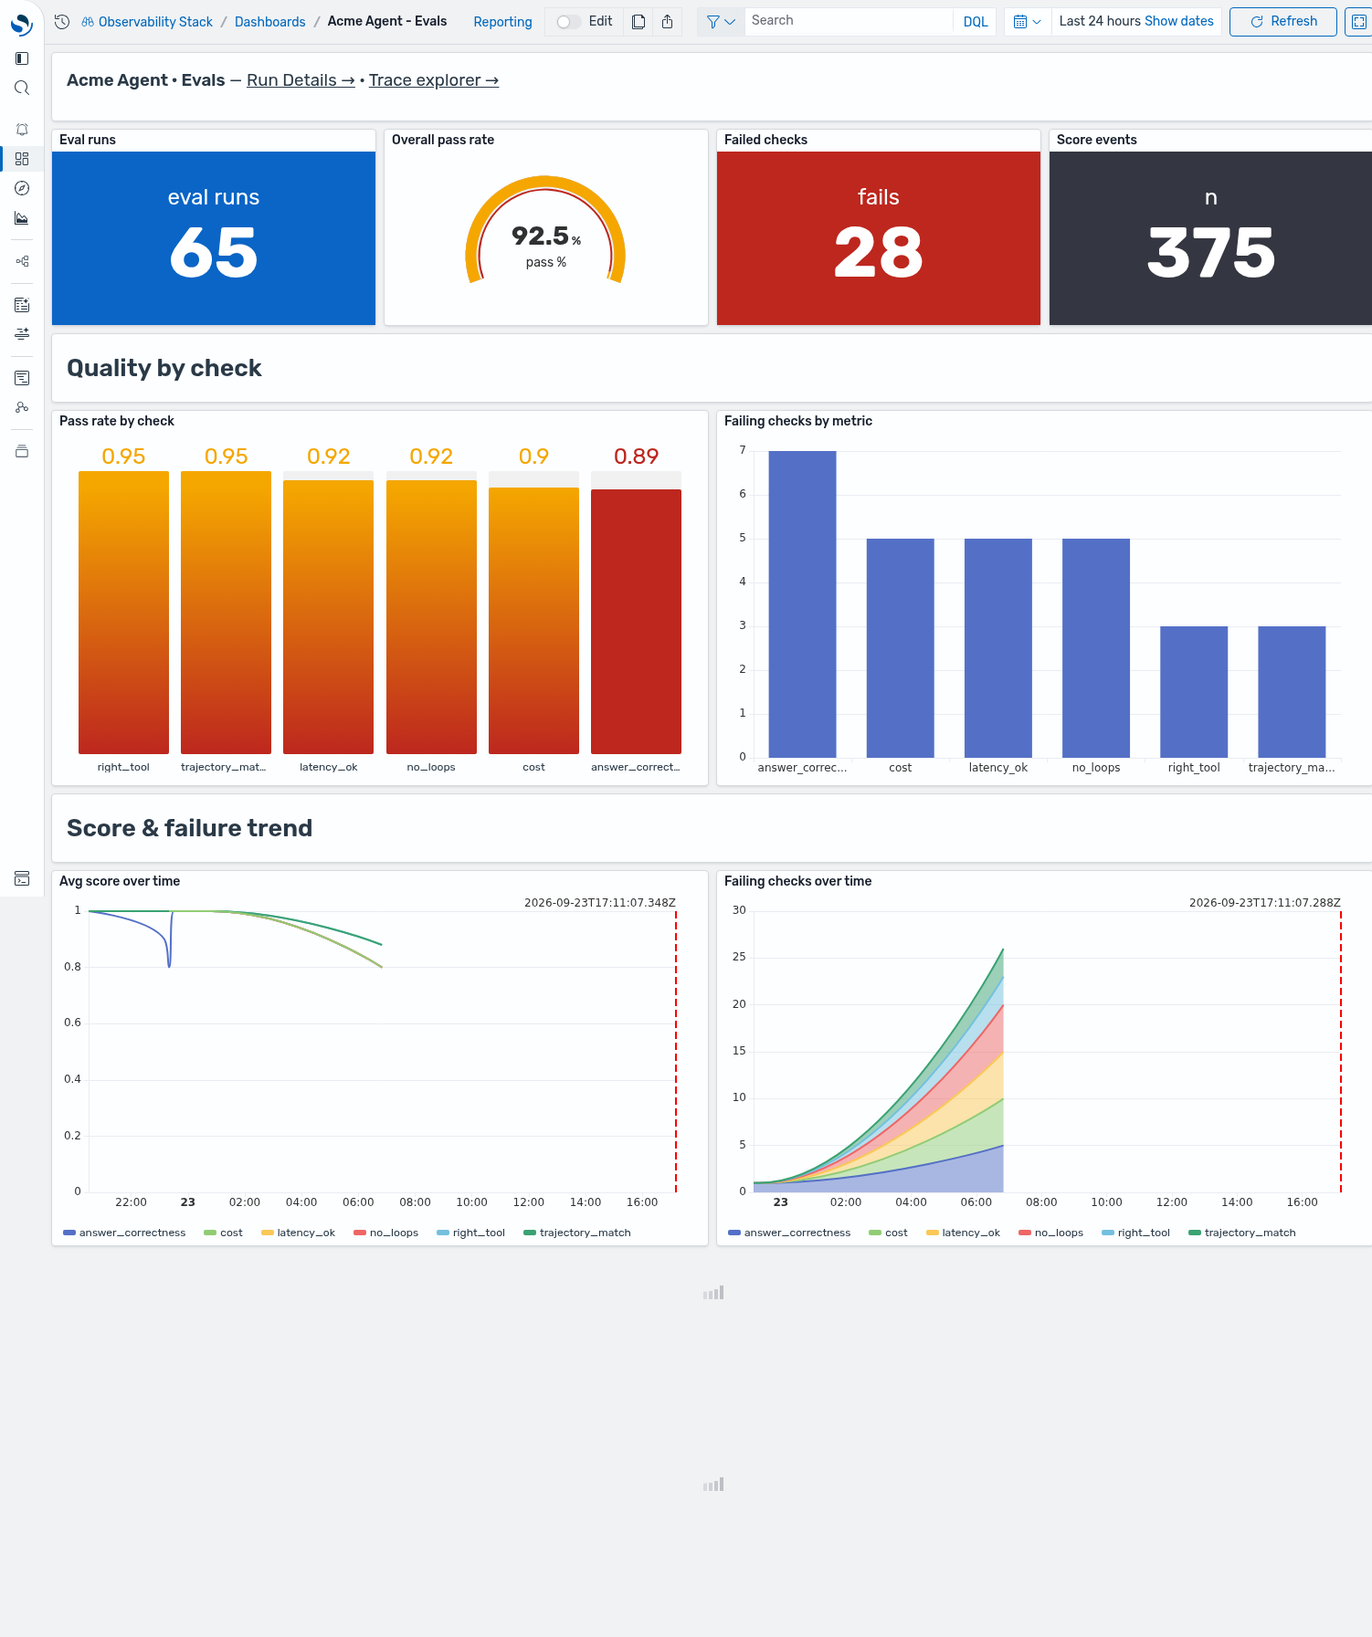
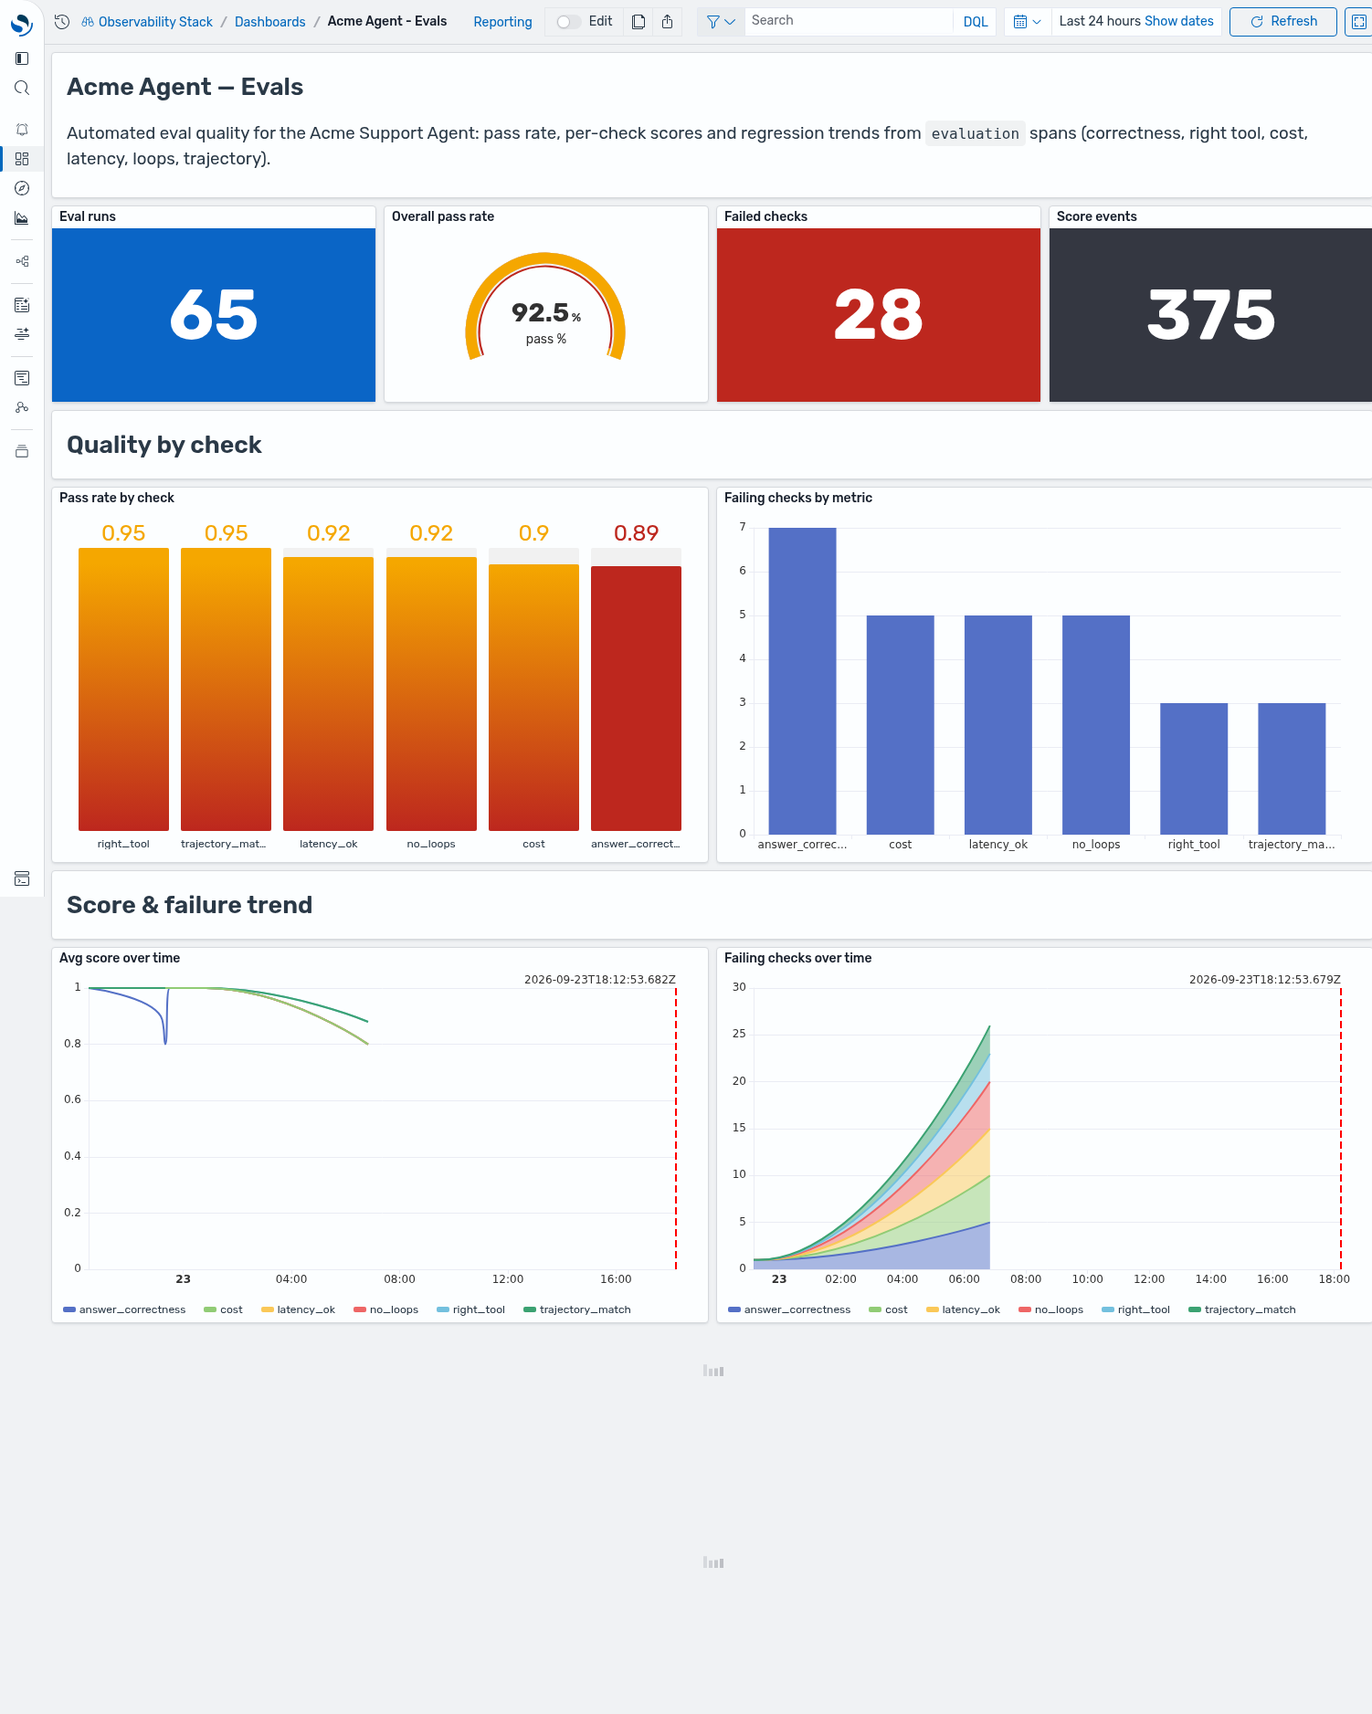
fix(dashboards): working trace-ID drill-down (absolute URL + traceId field), time-carrying nav links, dashboard descriptions, value-only KPI tiles (no stray 'n'), reference-aligned look

diff --git a/acme-support-agent/dashboards/acme-dashboards-init.py b/acme-support-agent/dashboards/acme-dashboards-init.py
@@ -25,6 +25,10 @@ USER = os.environ.get("OSD_USER", "admin")
 PW = os.environ.get("OSD_PASSWORD", "My_password_123!@#")
 WORKSPACE_NAME = os.environ.get("WORKSPACE_NAME", "Observability Stack")
 SPAN_PATTERN = os.environ.get("SPAN_PATTERN", "otel-v1-apm-span*")
+# Browser-reachable base for cross-app links/drill-downs (data-links need absolute URLs).
+# Set to the tunnel/host URL when serving remotely; defaults to localhost.
+PUBLIC = os.environ.get("OSD_PUBLIC_URL", "http://localhost:5601").rstrip("/")
+GTIME = "_g=(time:(from:now-24h,to:now))"
 PROM = "ObservabilityStack_Prometheus"
 H = {"osd-xsrf": "true", "Content-Type": "application/json"}
 S = requests.Session(); S.auth = (USER, PW); S.verify = False
@@ -115,7 +119,7 @@ def md_panel(pid, markdown):
         "references": []}
 
 
-def metric_params(base=BLUE, thresholds=None, calc="total", text="value_and_name", unit=None, solid=True):
+def metric_params(base=BLUE, thresholds=None, calc="total", text="value", unit=None, solid=True):
     p = {"showTitle": True, "title": "", "showPercentage": False, "valueCalculation": calc,
          "thresholdOptions": {"baseColor": base, "thresholds": thresholds or []},
          "useThresholdColor": True, "textMode": text,
@@ -173,22 +177,23 @@ P_TABLE = {"pageSize": 20, "globalAlignment": "left", "showColumnFilter": False,
 
 
 def table_links(ws, span_id, field="field-0"):
-    url = (f"/w/{ws}/app/explore/traces/traceDetails#/?_a=(dataset:(id:'{span_id}',"
+    # Absolute URL — OSD table data-links don't render relative URLs as clickable.
+    url = (f"{PUBLIC}/w/{ws}/app/explore/traces/traceDetails#/?_a=(dataset:(id:'{span_id}',"
            f"title:'otel-v1-apm-span*',type:'INDEX_PATTERN',timeFieldName:'endTime'),"
            f"traceId:'${{__value.text}}')")
     p = dict(P_TABLE)
-    p["dataLinks"] = [{"id": "trace-link", "title": "Open trace", "url": url, "openInNewTab": True, "fields": [field]}]
+    p["dataLinks"] = [{"id": "trace-link", "title": "Open trace", "url": url, "openInNewTab": True, "fields": ["traceId"]}]
     return p
 
 
-def dashboard(did, title, layout, variables=None):
+def dashboard(did, title, layout, variables=None, description=""):
     panels, refs = [], []
     for i, (obj, x, y, w, h) in enumerate(layout):
         name = f"panel_{i}"
         panels.append({"gridData": {"x": x, "y": y, "w": w, "h": h, "i": str(i)},
                        "panelIndex": str(i), "version": "3.0.0", "panelRefName": name})
         refs.append({"id": obj["id"], "name": name, "type": obj["type"]})
-    attrs = {"title": title, "description": "", "panelsJSON": json.dumps(panels),
+    attrs = {"title": title, "description": description, "panelsJSON": json.dumps(panels),
              "optionsJSON": json.dumps({"useMargins": True, "hidePanelTitles": False}),
              "version": 1, "timeRestore": True, "timeFrom": "now-24h", "timeTo": "now",
              "kibanaSavedObjectMeta": {"searchSourceJSON": json.dumps({"query": {"query": "", "language": "PPL"}, "filter": []})}}
@@ -227,73 +232,79 @@ EVV = "`attributes.gen_ai.evaluation.score.value`"
 def build(ws, span_id):
     R = "acme-run"; E = "acme-eval"
     P = lambda *a, **k: ppl_panel(*a, span_id=span_id, **k)
-    nav_run = ("**Acme Agent · Run Details**  —  "
-               f"[Evals dashboard →](/w/{ws}/app/dashboards#/view/acme-agent-evals)  ·  "
-               f"[Trace explorer →](/w/{ws}/app/agentTraces/traces)  ·  "
-               f"[Spans →](/w/{ws}/app/agentTraces/spans)")
-    nav_eval = ("**Acme Agent · Evals**  —  "
-                f"[Run Details →](/w/{ws}/app/dashboards#/view/acme-agent-run-details)  ·  "
-                f"[Trace explorer →](/w/{ws}/app/agentTraces/traces)")
+    nav_run = ("### Acme Agent — Run Details\n"
+               "Live health, latency, cost and error triage for the Acme Support Agent, from its "
+               "OpenTelemetry traces. Click any **trace ID** in *Recent error traces* to open the full span waterfall.\n\n"
+               f"**Go to:** [Evals dashboard →]({PUBLIC}/w/{ws}/app/dashboards#/view/acme-agent-evals?{GTIME})"
+               f" &nbsp;·&nbsp; [Trace explorer →]({PUBLIC}/w/{ws}/app/agentTraces/traces/#?{GTIME})"
+               f" &nbsp;·&nbsp; [Spans →]({PUBLIC}/w/{ws}/app/agentTraces/spans/#?{GTIME})")
+    nav_eval = ("### Acme Agent — Evals\n"
+                "Automated eval quality for the Acme Support Agent: pass rate, per-check scores and "
+                "regression trends from `evaluation` spans (correctness, right tool, cost, latency, loops, trajectory).\n\n"
+                f"**Go to:** [Run Details →]({PUBLIC}/w/{ws}/app/dashboards#/view/acme-agent-run-details?{GTIME})"
+                f" &nbsp;·&nbsp; [Trace explorer →]({PUBLIC}/w/{ws}/app/agentTraces/traces/#?{GTIME})")
 
     lat_bands = [{"value": 0, "color": GREEN}, {"value": 5, "color": AMBER}, {"value": 8, "color": RED}]
     run = [
-        (md_panel(f"{R}-nav", nav_run), 0, 0, 48, 3),
+        (md_panel(f"{R}-nav", nav_run), 0, 0, 48, 6),
         # health hero
         (P(f"{R}-health", "Agent health over time", f"| where {OP}='invoke_agent' | eval svc='acme-support-agent' | stats max(`status.code`) as st by span(endTime,10m), svc", "state_timeline",
            state_timeline_params([{"id": "ok", "type": "value", "value": "0", "displayText": "OK", "color": GREEN},
                                    {"id": "err", "type": "value", "value": "2", "displayText": "Error", "color": RED}]),
-           {"x": "span(endTime,10m)", "y": "svc", "color": "st"}), 0, 3, 48, 8),
+           {"x": "span(endTime,10m)", "y": "svc", "color": "st"}), 0, 6, 48, 8),
         # KPI row
-        (P(f"{R}-runs", "Agent runs", f"| where {OP}='invoke_agent' | stats count() as runs", "metric", metric_params(BLUE), {"value": ["runs"]}), 0, 11, 9, 8),
+        (P(f"{R}-runs", "Agent runs", f"| where {OP}='invoke_agent' | stats count() as runs", "metric", metric_params(BLUE), {"value": ["runs"]}), 0, 14, 9, 8),
         (P(f"{R}-success", "Success rate", f"| where {OP}='invoke_agent' | eval ok=if(`status.code`=2,0.0,1.0) | stats avg(ok) as a | eval `success %`=round(a * 100, 1) | fields `success %`", "gauge",
-           gauge_params([{"value": 0, "color": RED}, {"value": 95, "color": AMBER}, {"value": 99, "color": GREEN}]), {"value": ["success %"]}), 9, 11, 12, 8),
-        (P(f"{R}-errrate", "Error rate", f"| where {OP}='invoke_agent' | eval e=if(`status.code`=2,1.0,0.0) | stats avg(e) as a | eval `error %`=round(a * 100, 1) | fields `error %`", "metric", metric_params(RED, unit="percentage"), {"value": ["error %"]}), 21, 11, 9, 8),
-        (P(f"{R}-p95kpi", "P95 latency", f"| where {OP}='invoke_agent' | stats percentile(durationInNanos,95) as p | eval `p95 s`=round(p / 1000000000.0, 2) | fields `p95 s`", "metric", metric_params(GREEN, thresholds=lat_bands, unit="seconds"), {"value": ["p95 s"]}), 30, 11, 9, 8),
-        (P(f"{R}-cost", "Est. cost $", f"| stats sum({IN}) as ti, sum({OUT}) as to | eval `est $`=round(ti / 1000000.0 * 3 + to / 1000000.0 * 15, 3) | fields `est $`", "metric", metric_params(SLATE), {"value": ["est $"]}), 39, 11, 9, 8),
+           gauge_params([{"value": 0, "color": RED}, {"value": 95, "color": AMBER}, {"value": 99, "color": GREEN}]), {"value": ["success %"]}), 9, 14, 12, 8),
+        (P(f"{R}-errrate", "Error rate", f"| where {OP}='invoke_agent' | eval e=if(`status.code`=2,1.0,0.0) | stats avg(e) as a | eval `error %`=round(a * 100, 1) | fields `error %`", "metric", metric_params(RED, unit="percentage"), {"value": ["error %"]}), 21, 14, 9, 8),
+        (P(f"{R}-p95kpi", "P95 latency", f"| where {OP}='invoke_agent' | stats percentile(durationInNanos,95) as p | eval `p95 s`=round(p / 1000000000.0, 2) | fields `p95 s`", "metric", metric_params(GREEN, thresholds=lat_bands, unit="seconds"), {"value": ["p95 s"]}), 30, 14, 9, 8),
+        (P(f"{R}-cost", "Est. cost $", f"| stats sum({IN}) as ti, sum({OUT}) as to | eval `est $`=round(ti / 1000000.0 * 3 + to / 1000000.0 * 15, 3) | fields `est $`", "metric", metric_params(SLATE), {"value": ["est $"]}), 39, 14, 9, 8),
         # latency
-        (md_panel(f"{R}-h-lat", "### Latency"), 0, 19, 48, 3),
-        (P(f"{R}-p50", "P50 (s)", f"| where {OP}='invoke_agent' | stats percentile(durationInNanos,50) as p | eval s=round(p / 1000000000.0,2) | fields s", "metric", metric_params(BLUE, unit="seconds"), {"value": ["s"]}), 0, 22, 8, 7),
-        (P(f"{R}-p95", "P95 (s)", f"| where {OP}='invoke_agent' | stats percentile(durationInNanos,95) as p | eval s=round(p / 1000000000.0,2) | fields s", "metric", metric_params(BLUE, unit="seconds"), {"value": ["s"]}), 8, 22, 8, 7),
-        (P(f"{R}-p99", "P99 (s)", f"| where {OP}='invoke_agent' | stats percentile(durationInNanos,99) as p | eval s=round(p / 1000000000.0,2) | fields s", "metric", metric_params(BLUE, unit="seconds"), {"value": ["s"]}), 16, 22, 8, 7),
-        (P(f"{R}-latdist", "Latency distribution (s)", f"| where {OP}='invoke_agent' | eval s=round(durationInNanos / 1000000000.0,1) | fields s", "histogram", histogram_params(BLUE), {"x": ["s"]}), 24, 22, 24, 15),
+        (md_panel(f"{R}-h-lat", "### Latency"), 0, 22, 48, 3),
+        (P(f"{R}-p50", "P50 (s)", f"| where {OP}='invoke_agent' | stats percentile(durationInNanos,50) as p | eval s=round(p / 1000000000.0,2) | fields s", "metric", metric_params(BLUE, unit="seconds"), {"value": ["s"]}), 0, 25, 8, 7),
+        (P(f"{R}-p95", "P95 (s)", f"| where {OP}='invoke_agent' | stats percentile(durationInNanos,95) as p | eval s=round(p / 1000000000.0,2) | fields s", "metric", metric_params(BLUE, unit="seconds"), {"value": ["s"]}), 8, 25, 8, 7),
+        (P(f"{R}-p99", "P99 (s)", f"| where {OP}='invoke_agent' | stats percentile(durationInNanos,99) as p | eval s=round(p / 1000000000.0,2) | fields s", "metric", metric_params(BLUE, unit="seconds"), {"value": ["s"]}), 16, 25, 8, 7),
+        (P(f"{R}-latdist", "Latency distribution (s)", f"| where {OP}='invoke_agent' | eval s=round(durationInNanos / 1000000000.0,1) | fields s", "histogram", histogram_params(BLUE), {"x": ["s"]}), 24, 25, 24, 15),
         # cost & tokens
-        (md_panel(f"{R}-h-cost", "### Cost & tokens"), 0, 29, 24, 3),
-        (P(f"{R}-tok-model", "Tokens by model", f"| where {MODEL}!='' | stats sum({TOT}) as tokens by {MODEL} | sort - tokens", "bar", P_BARH, {"x": [MODEL.strip('`')], "y": ["tokens"]}), 0, 32, 24, 15),
-        (P(f"{R}-tok-time", "Tokens in vs out over time", f"| where {TOT} > 0 | stats sum({IN}) as `in`, sum({OUT}) as `out` by span(endTime,10m)", "area", P_AREA, {"x": ["span(endTime,10m)"], "y": ["in", "out"]}), 24, 37, 24, 15),
+        (md_panel(f"{R}-h-cost", "### Cost & tokens"), 0, 32, 24, 3),
+        (P(f"{R}-tok-model", "Tokens by model", f"| where {MODEL}!='' | stats sum({TOT}) as tokens by {MODEL} | sort - tokens", "bar", P_BARH, {"x": [MODEL.strip('`')], "y": ["tokens"]}), 0, 35, 24, 15),
+        (P(f"{R}-tok-time", "Tokens in vs out over time", f"| where {TOT} > 0 | stats sum({IN}) as `in`, sum({OUT}) as `out` by span(endTime,10m)", "area", P_AREA, {"x": ["span(endTime,10m)"], "y": ["in", "out"]}), 24, 42, 24, 15),
         # tools & throughput
-        (md_panel(f"{R}-h-tools", "### Tools & throughput"), 24, 29, 24, 3),
-        (P(f"{R}-tools", "Tool analytics", f"| where {OP}='execute_tool' and `attributes.gen_ai.tool.name`!='' | stats count() as calls, avg(durationInNanos) as d by `attributes.gen_ai.tool.name` | eval `avg ms`=round(d / 1000000.0,2) | fields `attributes.gen_ai.tool.name`, calls, `avg ms` | sort - calls", "table", P_TABLE, {}), 24, 32, 24, 8),
-        (P(f"{R}-throughput", "Throughput (runs / 10m)", f"| where {OP}='invoke_agent' | stats count() as runs by span(endTime,10m)", "line", P_LINE, {"x": ["span(endTime,10m)"], "y": ["runs"]}), 0, 47, 24, 15),
+        (md_panel(f"{R}-h-tools", "### Tools & throughput"), 24, 32, 24, 3),
+        (P(f"{R}-tools", "Tool analytics", f"| where {OP}='execute_tool' and isnotnull(`attributes.gen_ai.tool.name`) and `attributes.gen_ai.tool.name`!='' | stats count() as calls, avg(durationInNanos) as d by `attributes.gen_ai.tool.name` | eval `avg ms`=round(d / 1000000.0,2) | fields `attributes.gen_ai.tool.name`, calls, `avg ms` | sort - calls", "table", P_TABLE, {}), 24, 35, 24, 8),
+        (P(f"{R}-throughput", "Throughput (runs / 10m)", f"| where {OP}='invoke_agent' | stats count() as runs by span(endTime,10m)", "line", P_LINE, {"x": ["span(endTime,10m)"], "y": ["runs"]}), 0, 50, 24, 15),
         # errors (drill-down)
-        (md_panel(f"{R}-h-err", "### Errors  ·  click a row's trace ID to open the trace"), 0, 62, 48, 3),
-        (P(f"{R}-errtbl", "Recent error traces", f"| where `status.code`=2 | fields traceId, endTime, name, `events.attributes.exception.message` | sort - endTime | head 20", "table", table_links(ws, span_id), {}), 0, 65, 48, 15),
+        (md_panel(f"{R}-h-err", "### Errors  ·  click a row's trace ID to open the trace"), 0, 65, 48, 3),
+        (P(f"{R}-errtbl", "Recent error traces", f"| where `status.code`=2 | fields traceId, endTime, name, `events.attributes.exception.message` | sort - endTime | head 20", "table", table_links(ws, span_id), {}), 0, 68, 48, 15),
         # pipeline (PromQL)
-        (md_panel(f"{R}-h-pipe", "### Telemetry pipeline (PromQL / Prometheus)"), 0, 80, 48, 3),
-        (promql_panel(f"{R}-ingest", "Span ingest vs export rate", "sum(rate(otelcol_receiver_accepted_spans_total[5m])) or sum(rate(otelcol_exporter_sent_spans_total[5m]))", "line", P_LINE, {"x": ["Time"], "y": ["Value"], "color": ["Series"]}), 0, 83, 36, 12),
-        (promql_panel(f"{R}-exfail", "Span export failures", "sum(otelcol_exporter_send_failed_spans_total) or on() vector(0)", "metric", metric_params(RED, calc="last"), {"value": ["Value"], "time": ["Time"]}), 36, 83, 12, 12),
+        (md_panel(f"{R}-h-pipe", "### Telemetry pipeline (PromQL / Prometheus)"), 0, 83, 48, 3),
+        (promql_panel(f"{R}-ingest", "Span ingest vs export rate", "sum(rate(otelcol_receiver_accepted_spans_total[5m])) or sum(rate(otelcol_exporter_sent_spans_total[5m]))", "line", P_LINE, {"x": ["Time"], "y": ["Value"], "color": ["Series"]}), 0, 86, 36, 12),
+        (promql_panel(f"{R}-exfail", "Span export failures", "sum(otelcol_exporter_send_failed_spans_total) or on() vector(0)", "metric", metric_params(RED, calc="last"), {"value": ["Value"], "time": ["Time"]}), 36, 86, 12, 12),
     ]
 
     EV = f"| where {OP}='evaluation'"
     ev = [
-        (md_panel(f"{E}-nav", nav_eval), 0, 0, 48, 3),
-        (P(f"{E}-runs", "Eval runs", f"| where {OP}='invoke_agent' and `attributes.gen_ai.agent.name`='eval_case' | stats count() as `eval runs`", "metric", metric_params(BLUE), {"value": ["eval runs"]}), 0, 3, 12, 8),
+        (md_panel(f"{E}-nav", nav_eval), 0, 0, 48, 6),
+        (P(f"{E}-runs", "Eval runs", f"| where {OP}='invoke_agent' and `attributes.gen_ai.agent.name`='eval_case' | stats count() as `eval runs`", "metric", metric_params(BLUE), {"value": ["eval runs"]}), 0, 6, 12, 8),
         (P(f"{E}-pass", "Overall pass rate", f"{EV} | stats avg({EVV}) as a | eval `pass %`=round(a * 100, 1) | fields `pass %`", "gauge",
-           gauge_params([{"value": 0, "color": RED}, {"value": 90, "color": AMBER}, {"value": 99, "color": GREEN}]), {"value": ["pass %"]}), 12, 3, 12, 8),
-        (P(f"{E}-fails", "Failed checks", f"{EV} and {EVV} < 1 | stats count() as fails", "metric", metric_params(RED), {"value": ["fails"]}), 24, 3, 12, 8),
-        (P(f"{E}-events", "Score events", f"{EV} | stats count() as n", "metric", metric_params(SLATE), {"value": ["n"]}), 36, 3, 12, 8),
-        (md_panel(f"{E}-h-quality", "### Quality by check"), 0, 11, 48, 3),
+           gauge_params([{"value": 0, "color": RED}, {"value": 90, "color": AMBER}, {"value": 99, "color": GREEN}]), {"value": ["pass %"]}), 12, 6, 12, 8),
+        (P(f"{E}-fails", "Failed checks", f"{EV} and {EVV} < 1 | stats count() as fails", "metric", metric_params(RED), {"value": ["fails"]}), 24, 6, 12, 8),
+        (P(f"{E}-events", "Score events", f"{EV} | stats count() as events", "metric", metric_params(SLATE), {"value": ["events"]}), 36, 6, 12, 8),
+        (md_panel(f"{E}-h-quality", "### Quality by check"), 0, 14, 48, 3),
         (P(f"{E}-bargauge", "Pass rate by check", f"{EV} | stats avg({EVV}) as score by {EVN} | sort - score", "bar_gauge",
-           bargauge_params([{"value": 0, "color": RED}, {"value": 0.9, "color": AMBER}, {"value": 0.99, "color": GREEN}]), {"x": [EVN.strip('`')], "y": ["score"]}), 0, 14, 24, 15),
-        (P(f"{E}-failbymetric", "Failing checks by metric", f"{EV} and {EVV} < 1 | stats count() as fails by {EVN} | sort - fails", "bar", P_BARH, {"x": [EVN.strip('`')], "y": ["fails"]}), 24, 14, 24, 15),
-        (md_panel(f"{E}-h-trend", "### Score & failure trend"), 0, 29, 48, 3),
-        (P(f"{E}-time", "Avg score over time", f"{EV} | stats avg({EVV}) as score by span(endTime,10m), {EVN}", "line", P_LINE, {"x": ["span(endTime,10m)"], "y": ["score"], "color": [EVN.strip('`')]}), 0, 32, 24, 15),
-        (P(f"{E}-failtime", "Failing checks over time", f"{EV} and {EVV} < 1 | stats count() as fails by span(endTime,10m), {EVN}", "area", P_AREA, {"x": ["span(endTime,10m)"], "y": ["fails"], "color": [EVN.strip('`')]}), 24, 32, 24, 15),
-        (md_panel(f"{E}-h-tbl", "### Failing checks"), 0, 47, 48, 3),
-        (P(f"{E}-failtbl", "Failing checks by metric", f"{EV} and {EVV} < 1 | stats count() as fails by {EVN} | sort - fails", "table", P_TABLE, {}), 0, 50, 48, 12),
+           bargauge_params([{"value": 0, "color": RED}, {"value": 0.9, "color": AMBER}, {"value": 0.99, "color": GREEN}]), {"x": [EVN.strip('`')], "y": ["score"]}), 0, 17, 24, 15),
+        (P(f"{E}-failbymetric", "Failing checks by metric", f"{EV} and {EVV} < 1 | stats count() as fails by {EVN} | sort - fails", "bar", P_BARH, {"x": [EVN.strip('`')], "y": ["fails"]}), 24, 17, 24, 15),
+        (md_panel(f"{E}-h-trend", "### Score & failure trend"), 0, 32, 48, 3),
+        (P(f"{E}-time", "Avg score over time", f"{EV} | stats avg({EVV}) as score by span(endTime,10m), {EVN}", "line", P_LINE, {"x": ["span(endTime,10m)"], "y": ["score"], "color": [EVN.strip('`')]}), 0, 35, 24, 15),
+        (P(f"{E}-failtime", "Failing checks over time", f"{EV} and {EVV} < 1 | stats count() as fails by span(endTime,10m), {EVN}", "area", P_AREA, {"x": ["span(endTime,10m)"], "y": ["fails"], "color": [EVN.strip('`')]}), 24, 35, 24, 15),
+        (md_panel(f"{E}-h-tbl", "### Failing checks"), 0, 50, 48, 3),
+        (P(f"{E}-failtbl", "Failing checks by metric", f"{EV} and {EVV} < 1 | stats count() as fails by {EVN} | sort - fails", "table", P_TABLE, {}), 0, 53, 48, 12),
     ]
 
-    d1 = dashboard("acme-agent-run-details", "Acme Agent - Run Details", run)
-    d2 = dashboard("acme-agent-evals", "Acme Agent - Evals", ev)
+    d1 = dashboard("acme-agent-run-details", "Acme Agent - Run Details", run,
+                   description="Live health, latency, cost and error triage for the Acme Support Agent, from OpenTelemetry traces (otel-v1-apm-span*). Trace IDs in the error table deep-link to the span waterfall.")
+    d2 = dashboard("acme-agent-evals", "Acme Agent - Evals", ev,
+                   description="Automated eval quality for the Acme Support Agent: pass rate, per-check scores and regression trends from evaluation spans.")
     objs = [o for (o, *_g) in run] + [o for (o, *_g) in ev]
     return objs, [d1, d2]
 

diff --git a/acme-support-agent/dashboards/README.md b/acme-support-agent/dashboards/README.md
@@ -53,7 +53,12 @@ OSD_BASE_URL=http://localhost:5601 python acme-support-agent/dashboards/acme-das
 ```
 
 Env: `OSD_BASE_URL`, `OSD_USER` (default `admin`), `OSD_PASSWORD`, `WORKSPACE_NAME`
-(default `Observability Stack`), `SPAN_PATTERN` (default `otel-v1-apm-span*`).
+(default `Observability Stack`), `SPAN_PATTERN` (default `otel-v1-apm-span*`), and
+**`OSD_PUBLIC_URL`** — the browser-facing base used for the nav links and the
+error-table **trace-ID drill-down** (data-links require an absolute URL). Defaults to
+`http://localhost:5601`; set it to your published URL when serving remotely, e.g.
+`OSD_PUBLIC_URL=https://my-host python .../acme-dashboards-init.py`. Nav links carry the
+`now-24h` time range across to the Agent Traces app.
 
 ## Demo data (fault injection)
 
